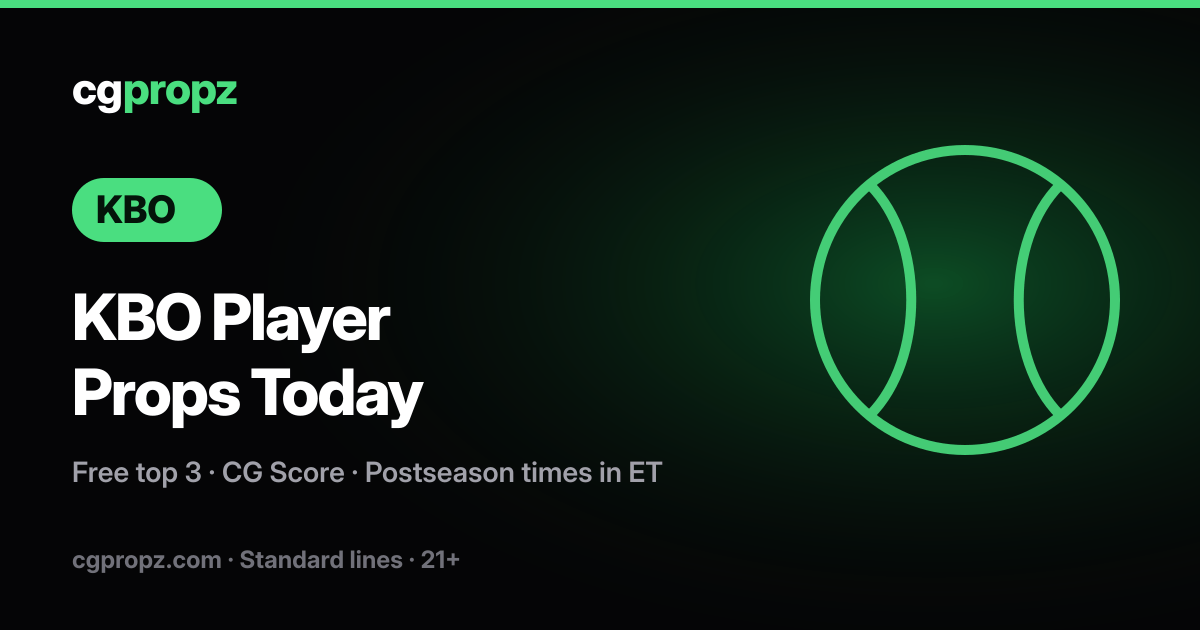
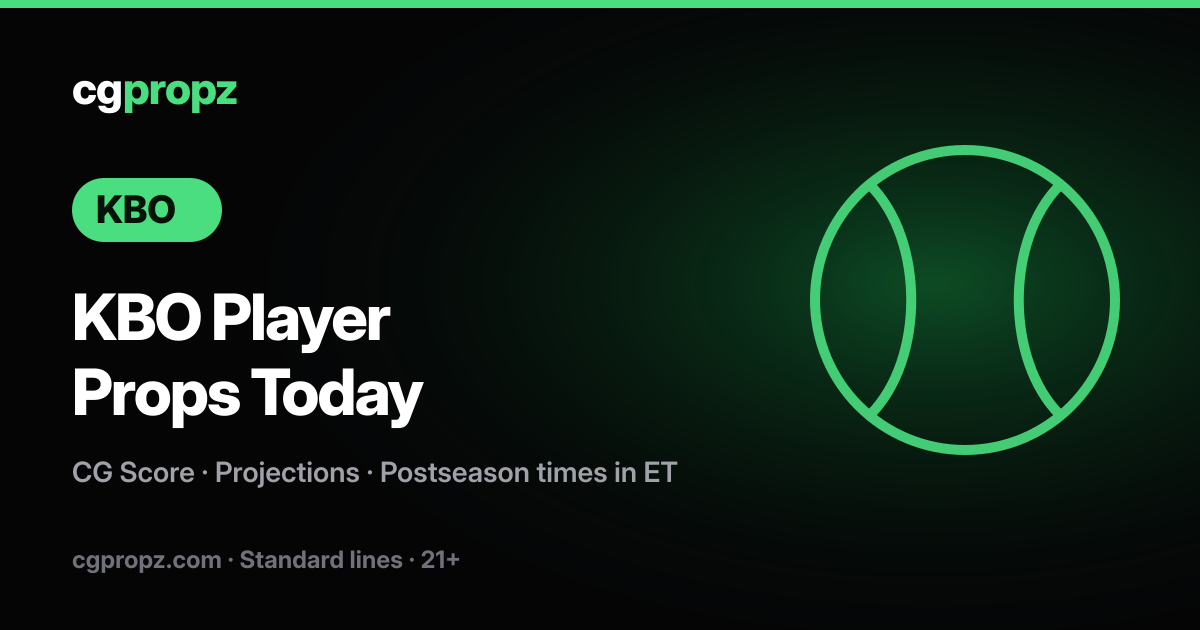
KBO page: conditional free top 3 copy (hero link dropped, block heading/fallback, how-picked, full-board CTA), OG card without 'Free top 3'

Changed region(s): [[0.0617, 0.7238, 0.5858, 0.7841]]

diff --git a/kbo-props-ui/public/kbo-player-props.html b/kbo-props-ui/public/kbo-player-props.html
@@ -100,8 +100,8 @@
       
       <h1>KBO player props, with the full board.</h1>
 <p>CGPropz tracks KBO player props for Korea Baseball Organization games: batter lines such as hits, runs and RBIs, and pitcher lines such as strikeouts. Each prop sits next to a model number built from recent form, the matchup and the posted line. The live board is the <a href="https://www.cgpropz.com/?sport=kbo">KBO board</a>. All-Access plans that include KBO are listed on <a href="https://www.cgpropz.com/pricing">pricing</a>.</p>
-<p>The regular season is over, and the KBO postseason has been under way since Wednesday, Oct 14. Slates shrink to one game a day, so the free picks and the full board will be smaller than in the regular season.</p>
-<p><strong><a href="https://www.cgpropz.com/?sport=kbo">Open the KBO board</a></strong> · <strong><a href="https://www.cgpropz.com/#free-top-3">Today's free top 3</a></strong> · <strong><a href="https://www.cgpropz.com/pricing">See pricing</a></strong></p>
+<p>The regular season is over, and the KBO postseason has been under way since Wednesday, Oct 14. Slates shrink to one game a day, so the board, and the free picks on days with posted lines, will be smaller than in the regular season.</p>
+<p><strong><a href="https://www.cgpropz.com/?sport=kbo">Open the KBO board</a></strong> · <strong><a href="https://www.cgpropz.com/pricing">See pricing</a></strong></p>
 <p>New here? <a href="https://www.cgpropz.com/guides/start-here">Start here</a> for a ten-minute walkthrough of reading a board row.</p>
 <h2>KBO postseason 2026: schedule and first pitch in ET</h2>
 <p>Korea is 13 hours ahead of US Eastern Time until Nov 1, when US clocks fall back and the gap becomes 14 hours. A 6:30 PM game in Korea starts at <strong>5:30 AM ET</strong> (4:30 AM ET from Nov 2). A 2:00 PM game in Korea starts at <strong>1:00 AM ET</strong> on the same calendar date.</p>
@@ -126,15 +126,15 @@
 <li><strong>Lines may not be posted for every game.</strong> Whether pick'em apps post KBO postseason props is up to them.</li>
 </ul>
 <h2>How the KBO board works</h2>
-<p>The live KBO board in the app lines a model number up with the posted prop. The free preview shows three lines. The rest of that live board is All-Access, and those rows are not printed here.</p>
-<p><strong>How the KBO free top 3 is picked:</strong> the three standard lines with the highest CG Scores on the board. Lines PrizePicks has taken down are left out.</p>
+<p>The live KBO board in the app lines a model number up with the posted prop. When KBO lines are posted, the free preview shows three of them. The rest of that live board is All-Access, and those rows are not printed here.</p>
+<p><strong>How the KBO free top 3 is picked:</strong> when KBO lines are posted, it is the three standard lines with the highest CG Scores on the board. Lines PrizePicks has taken down are left out.</p>
 <h2>What CG Score means on KBO</h2>
 <p>CG Score shows how far the CGPropz projection sits from the posted line. Around 50 means the projection and the line are roughly even, above 50 leans over, and below 50 leans under. A bigger gap from 50 means a bigger gap between the model and the line, and scores on low lines can run higher.</p>
 <p>Sports can calculate it a bit differently. KBO can show its own stored score, so read KBO scores on their own terms rather than comparing them directly with other sports.</p>
 <p>The score is not a probability, and a higher score is not a claim that the prop hits more often. <a href="https://www.cgpropz.com/guides/cg-score">How CG Score works</a> is the full guide.</p>
       <section id="free-top-3"><div class="free-top3-slot">
-      <div class="free-top3-block" data-sport="kbo"><h2>Today's free KBO top 3</h2>
-      <div data-nosnippet><p class="free-top3-stamp">Check the live board for today's free KBO top 3.</p></div>
+      <div class="free-top3-block" data-sport="kbo"><h2>Free KBO top 3, when lines are posted</h2>
+      <div data-nosnippet><p class="free-top3-stamp">When KBO lines are posted, the free KBO top 3 shows here. Check the live board for current lines.</p></div>
       <p class="note"><a href="https://www.cgpropz.com/?sport=kbo">Open the KBO board</a> for the latest lines.</p></div>
       <i hidden class="free-top3-end"></i></div></section>
       <h2>FAQ</h2>
@@ -151,7 +151,7 @@
 <h3>Is CGPropz affiliated with PrizePicks or Underdog?</h3>
 <p>No. CGPropz is not affiliated with PrizePicks or Underdog.</p>
 <h2>Get the full KBO board</h2>
-<p>The free top 3 is a small slice. All-Access opens every KBO prop on the board with projections, scores, hit rates and matchup context, plus the NFL, WNBA, NBA and NHL boards under one login.</p>
+<p>When KBO lines are posted, All-Access opens every KBO prop on the board with projections, scores, hit rates and matchup context, plus the NFL, WNBA, NBA and NHL boards under one login.</p>
 <p><strong><a href="https://www.cgpropz.com/?sport=kbo">Open the KBO board</a></strong> · <strong><a href="https://www.cgpropz.com/pricing">Compare All-Access plans</a></strong> · <a href="https://www.cgpropz.com/guides/start-here">Start here</a> · <a href="https://www.cgpropz.com/guides/cg-score">How CG Score works</a></p>
 <hr />
 <p><strong>21+ only.</strong> Gambling involves risk. Only risk money you can afford to lose. If you or someone you know has a gambling problem, call <strong>1-800-GAMBLER</strong>.</p>

diff --git a/kbo-props-ui/content/kbo-player-props.md b/kbo-props-ui/content/kbo-player-props.md
@@ -25,9 +25,9 @@ status: draft
 
 CGPropz tracks KBO player props for Korea Baseball Organization games: batter lines such as hits, runs and RBIs, and pitcher lines such as strikeouts. Each prop sits next to a model number built from recent form, the matchup and the posted line. The live board is the [KBO board](/?sport=kbo). All-Access plans that include KBO are listed on [pricing](/pricing).
 
-The regular season is over, and the KBO postseason has been under way since Wednesday, Oct 14. Slates shrink to one game a day, so the free picks and the full board will be smaller than in the regular season.
+The regular season is over, and the KBO postseason has been under way since Wednesday, Oct 14. Slates shrink to one game a day, so the board, and the free picks on days with posted lines, will be smaller than in the regular season.
 
-**[Open the KBO board](/?sport=kbo)** · **[Today's free top 3](/#free-top-3)** · **[See pricing](/pricing)**
+**[Open the KBO board](/?sport=kbo)** · **[See pricing](/pricing)**
 
 New here? [Start here](/guides/start-here) for a ten-minute walkthrough of reading a board row.
 
@@ -56,9 +56,9 @@ The Wild Card works differently from the other rounds. LG, the fourth seed, adva
 
 ## How the KBO board works
 
-The live KBO board in the app lines a model number up with the posted prop. The free preview shows three lines. The rest of that live board is All-Access, and those rows are not printed here.
+The live KBO board in the app lines a model number up with the posted prop. When KBO lines are posted, the free preview shows three of them. The rest of that live board is All-Access, and those rows are not printed here.
 
-**How the KBO free top 3 is picked:** the three standard lines with the highest CG Scores on the board. Lines PrizePicks has taken down are left out.
+**How the KBO free top 3 is picked:** when KBO lines are posted, it is the three standard lines with the highest CG Scores on the board. Lines PrizePicks has taken down are left out.
 
 ## What CG Score means on KBO
 
@@ -105,7 +105,7 @@ No. CGPropz is not affiliated with PrizePicks or Underdog.
 
 ## Get the full KBO board
 
-The free top 3 is a small slice. All-Access opens every KBO prop on the board with projections, scores, hit rates and matchup context, plus the NFL, WNBA, NBA and NHL boards under one login.
+When KBO lines are posted, All-Access opens every KBO prop on the board with projections, scores, hit rates and matchup context, plus the NFL, WNBA, NBA and NHL boards under one login.
 
 **[Open the KBO board](/?sport=kbo)** · **[Compare All-Access plans](/pricing)** · [Start here](/guides/start-here) · [How CG Score works](/guides/cg-score)
 
